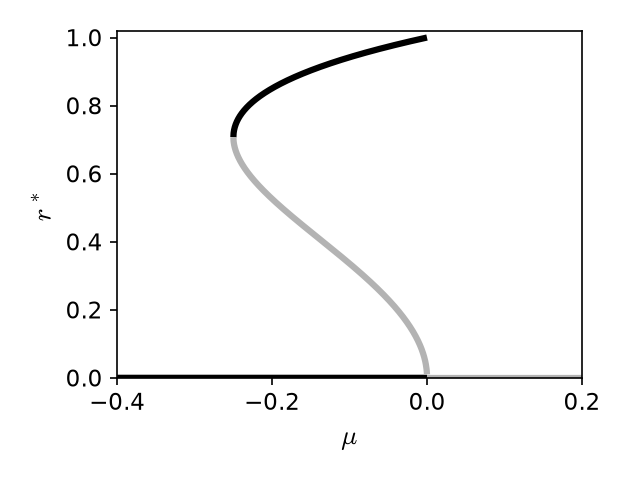
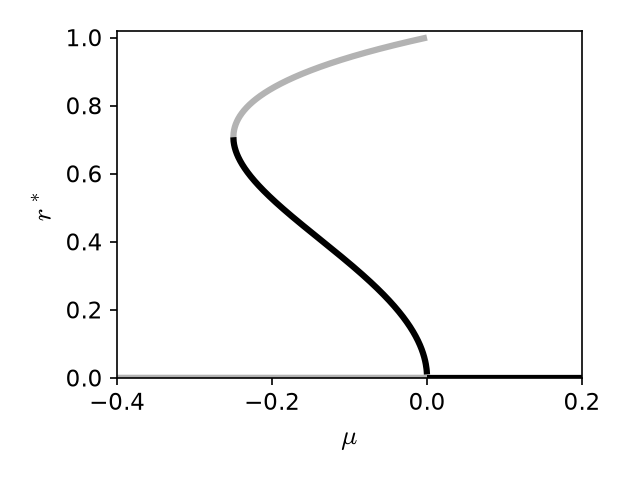
cont1d/cont2d: C1-2 comment, C1-5 scratch lines, C2-12 limit-cycle code, C2-8 recoloured panel (d); disc2d lab links (L-1)

diff --git a/creators/python/cont2d/fig_global.py b/creators/python/cont2d/fig_global.py
@@ -66,8 +66,10 @@ plt.tight_layout()
 plt.savefig(OUT / "cont2d_global_r.png", dpi=150)
 plt.close()
 
-# fixed points of  F(r, mu) = mu r + r^3 - r^5  (the figure's stability colouring
-# is that of this sign convention: stable where dF/dr < 0)
+# fixed points of the radial equation of panels (a)-(c),  dr/dt = g(r, mu) =
+# -mu r - r^3 + r^5. Stable where dg/dr < 0: the origin for mu > 0, the inner
+# branch (the stable limit cycle born in the saddle-node at mu = -1/4); the
+# outer branch is unstable.
 mus = np.linspace(-0.4, 0.2, 2001)
 plt.figure(figsize=(4.2, 3.2))
 
@@ -77,14 +79,15 @@ def seg(mu_, r_, stable):
              solid_capstyle="butt")
 
 
-# origin: stable for mu < 0
-seg(mus[mus < 0], 0 * mus[mus < 0], True)
-seg(mus[mus >= 0], 0 * mus[mus >= 0], False)
-# non-trivial branches r^2 = (1 +- sqrt(1 + 4 mu))/2 for mu >= -1/4
+# origin: dg/dr = -mu, unstable for mu < 0, stable for mu > 0
+seg(mus[mus < 0], 0 * mus[mus < 0], False)
+seg(mus[mus >= 0], 0 * mus[mus >= 0], True)
+# non-trivial branches r^2 = (1 +- sqrt(1 + 4 mu))/2 for mu >= -1/4;
+# dg/dr = 2 r^2 (2 r^2 - 1): the inner (minus) branch is stable
 mb = mus[mus >= -0.25]
 mb_up = mb[mb <= 0]
-seg(mb_up, np.sqrt((1 + np.sqrt(1 + 4 * mb_up)) / 2), True)
-seg(mb_up, np.sqrt((1 - np.sqrt(1 + 4 * mb_up)) / 2), False)
+seg(mb_up, np.sqrt((1 + np.sqrt(1 + 4 * mb_up)) / 2), False)
+seg(mb_up, np.sqrt((1 - np.sqrt(1 + 4 * mb_up)) / 2), True)
 plt.xlim(-0.4, 0.2)
 plt.ylim(0, 1.02)
 plt.xlabel(r"$\mu$")

diff --git a/creators/python/cont2d/fig_limit_cycles.py b/creators/python/cont2d/fig_limit_cycles.py
@@ -21,10 +21,10 @@ OUT.mkdir(parents=True, exist_ok=True)
 
 
 def limit(t, s):
-    """Book's limit-cycle system, written exactly as printed in the chapter."""
+    """Limit-cycle system with r' = (1 - r^2)/4 and theta' = 1 exactly."""
     x, y = s
-    c = x / (4 * np.hypot(x, y)) * (1 - x**2 - y**2)
-    return [-y + c, x + c]
+    k = (1 - x**2 - y**2) / (4 * np.hypot(x, y))
+    return [-y + k * x, x + k * y]
 
 
 def run(f, x0, tend, **kw):

diff --git a/python/cont3d.md b/python/cont3d.md
@@ -288,7 +288,6 @@ plt.ylabel(r"$\Lambda$")
 
 # the package does the same, with a numerical Jacobian
 le_cb, local_rates = cb.effective_lyapunov(cb.lorenz, t, X1.T, X2.T)
-print("max |difference| with cb.effective_lyapunov:", np.abs(le - le_cb).max())
 
 # time averages over the run (the perturbation is still tiny: delta < 1)
 print("delta stays below", np.linalg.norm(X2 - X1, axis=0).max())
@@ -497,11 +496,9 @@ for i in range(N // 4, N - 1):
 plt.plot(pcx, pcz, "D", mfc="none")
 plt.xlabel("$x$")
 plt.ylabel("$z$")
-print(len(pcx), "crossings (sampled)")
 
 # cb.poincare_section locates the crossings exactly, by root finding
 tp, Xp = cb.poincare_section(cb.lorenz, [2, 5, 5], T[-1], (1, 0.0), discard=T[N // 4])
-print(len(tp), "crossings (cb.poincare_section)")
 ```
 
 ```{figure} _static/cont3d/cont3d_lorenz_poincare.png
@@ -717,12 +714,10 @@ plt.plot(xx[N // 2:], yy[N // 2:], ".", ms=2)
 plt.axis([-2, 2, -1, 1])
 plt.xlabel("$x$")
 plt.ylabel("$y$")
-print(len(xx), xx.min(), xx.max(), yy.min(), yy.max())
 
 
 # the package does the same in one call (cb.stroboscopic_section)
 P = cb.stroboscopic_section(cb.forced_double_well, ic, dt, 50, phase=phi, f=f, A=A, omega=omega)
-print("agrees with the package:", np.allclose(P[:, :2].T, sol.y[:2, :50], atol=1e-4))
 ```
 
 The result is shown in {numref}`fig:cont3d:doublewell_results`(b). The system does not settle in an limit cycle (which would correspond to a period-$M$ solution) but instead traces out a  fractal object, not too dissimilar to the Hénon map discussed in section {numref}`sec:disc2d:henonlyap`. Note that the result is shown in {numref}`fig:cont3d:doublewell_results`(b) is for the specific case of $\phi=0$, and the Poincaré section will be different for different $\phi$, much like a regular Poincaré section will be different for different surfaces of section. This can be easily verified by experimenting with the code above.

diff --git a/python/cont1d.md b/python/cont1d.md
@@ -488,8 +488,6 @@ for T, x, stable in branches:
     plt.plot(T, x, color="k" if stable else "0.7", linewidth=2.5)
 plt.xlabel("$T$")
 plt.ylabel("$x_*(T)$")
-plt.savefig("b4.png", dpi=70); plt.close()
-print(len(branches), "branches;", sum(s for _, _, s in branches), "stable")
 ```
 ````
 
@@ -529,7 +527,6 @@ for n in range(N + 1):
 plt.xlabel("$t$")
 plt.ylabel("$x(t)$")
 plt.show()
-print("final values:", np.round(sol.y[0, -1], 3))
 ```
 ````
 
@@ -707,8 +704,8 @@ snaps, x = [s.reshape(K, K).copy()], np.empty(iters + 1)
 for n in range(iters + 1):                  # dynamics
     i = rng.integers(N)                     # choose spin at random
     h = s.sum() / N + m                     # calc local field
-    p = 0.5 * (1 + np.tanh(s[i] * h / T))   # calc transition prob
-    if rng.random() > p:                    # flip spin or not
+    p = 0.5 * (1 + np.tanh(s[i] * h / T))   # prob. of NOT flipping (aligned spin: p -> 1)
+    if rng.random() > p:                    # flip with probability 1 - p
         s[i] = -s[i]
     if n % 200 == 0:
         snaps.append(s.reshape(K, K).copy())   # store some states
@@ -727,7 +724,6 @@ plt.ylim(-1, 1)
 plt.xlabel("$t$")
 plt.ylabel("$x(t)$")
 plt.show()
-print("initial mean state", x[0], " final", x[-1])
 ```
 ````
 

diff --git a/python/cont2d.md b/python/cont2d.md
@@ -84,7 +84,6 @@ plt.xlabel("$t$")
 plt.ylabel("$x(t), y(t)$")
 plt.legend()
 plt.show()
-print("x max, y max:", x.max(), y.max())
 ```
 ````
 
@@ -753,13 +752,13 @@ import chaosbook as cb
 
 def limit(t, s):
     x, y = s
-    c = x / (4 * np.sqrt(x**2 + y**2)) * (1 - x**2 - y**2)
-    return [-y + c, x + c]
+    k = (1 - x**2 - y**2) / (4 * np.sqrt(x**2 + y**2))
+    return [-y + k * x, x + k * y]
 
 # two initial conditions, one inside and one outside the cycle
 ics = [[0.01, 0], [2, 0]]
 cb.phase_portrait(limit, (-2, 2), (-2, 2), style="quiver",
-                  trajectories=ics, tmax=30, colors=["r", "g"])
+                  trajectories=ics, tmax=30, colors=["r", "b"])
 plt.show()
 for x0 in ics:
     sol = solve_ivp(limit, [0, 30], x0, rtol=1e-9)
